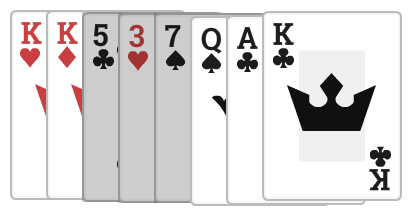
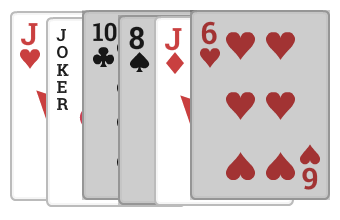
removed green from the background

diff --git a/java/ImageGeneratorPrimary.java b/java/ImageGeneratorPrimary.java
@@ -44,7 +44,7 @@ public class ImageGeneratorPrimary {
 	private static String outputFileType = "png";
 	
 	// How many output images to cycle through
-	private static int maxImages = 3;
+	private static int maxImages = 6;
 	
 	private static HashMap<String, BufferedImage> cardImages = new HashMap<>();
 	private static Random rand = new Random();
@@ -95,8 +95,8 @@ public class ImageGeneratorPrimary {
 		
 		Graphics2D g = (Graphics2D) img.getGraphics();
 		
-		g.setColor( new Color( 7, 99, 36 ) );
-		g.fillRect( 0, 0, imageWidth, imageHeight );
+		//g.setColor( new Color( 7, 99, 36 ) );
+		//g.fillRect( 0, 0, imageWidth, imageHeight );
 		
 		for ( int i = 0; i < cardNames.length; i++ ) {
 			
